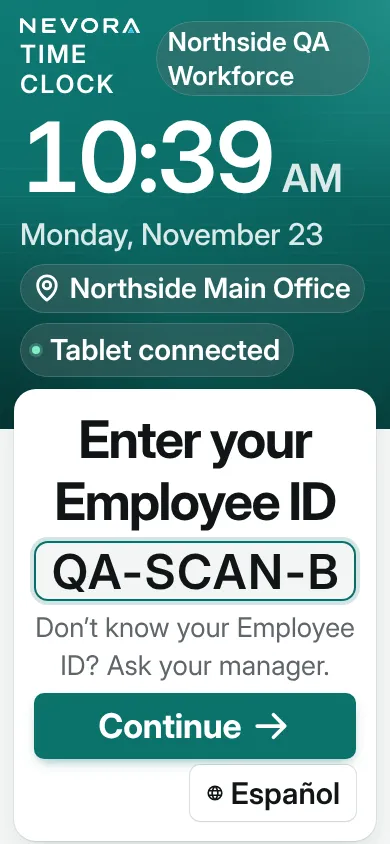
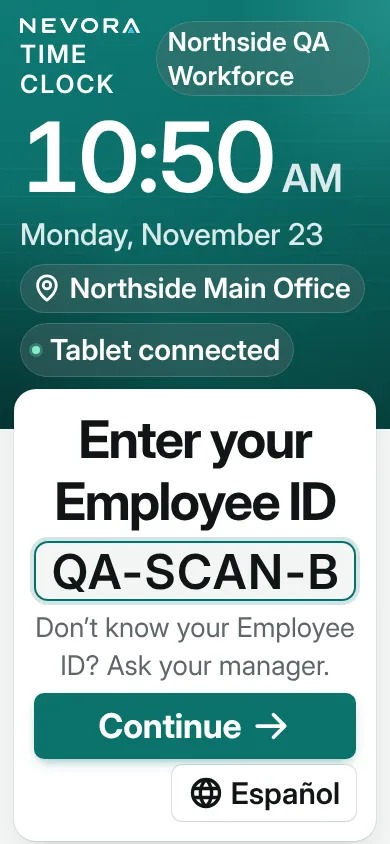
Clocker: recaptured K3 and K15 at 390 with 200% text for the globe
Claude-Session: https://claude.ai/code/session_01N2UNZD2hdESzbsSS51peiH

Changed region(s): [[0.4, 0.1232, 0.7077, 0.2156], [0.4615, 0.9242, 0.5846, 0.955]]

diff --git a/docs/handoffs/2026-11-23-phase2-cloud/reports/clocker-k3.md b/docs/handoffs/2026-11-23-phase2-cloud/reports/clocker-k3.md
@@ -64,5 +64,5 @@ wording decisions the lead is putting to Jose; not changed.
    "Offline", or a heading "This tablet is offline" on K1, K3 and the fallback together.
 3. Unknown ID: the message says "Check both" on the PIN step, where the Employee ID isn't shown; the way back is the
    icon-only back arrow ("Change Employee ID"). Proposed: show the entered ID under the heading with a Change link (K4).
-5. New: the globe in the language switch stays 16px at 200% text (outside this fix's scope; the switch is shared by
-   every Clocker screen).
+5. Fixed in `c1b44d98`: the language switch's globe is 1.125rem on every Clocker screen with the shared switch (18px at
+   the default size as before, 36px at 200%). Recaptured K3 typed and K15 paused at 390 with 200% text.
